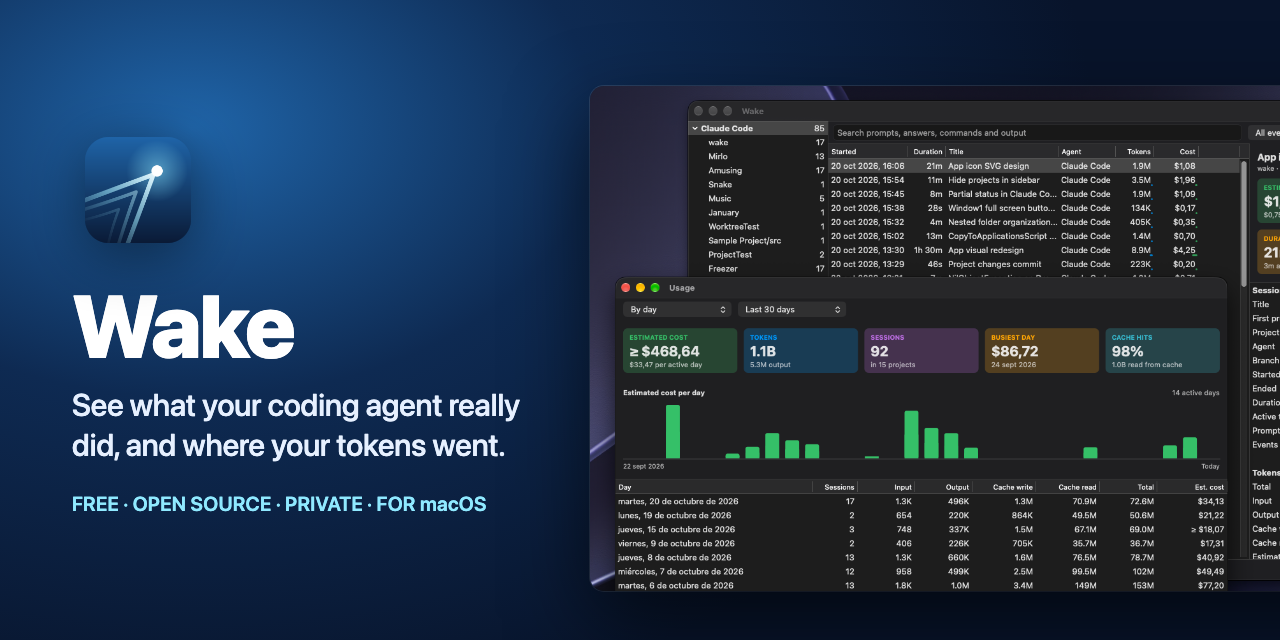
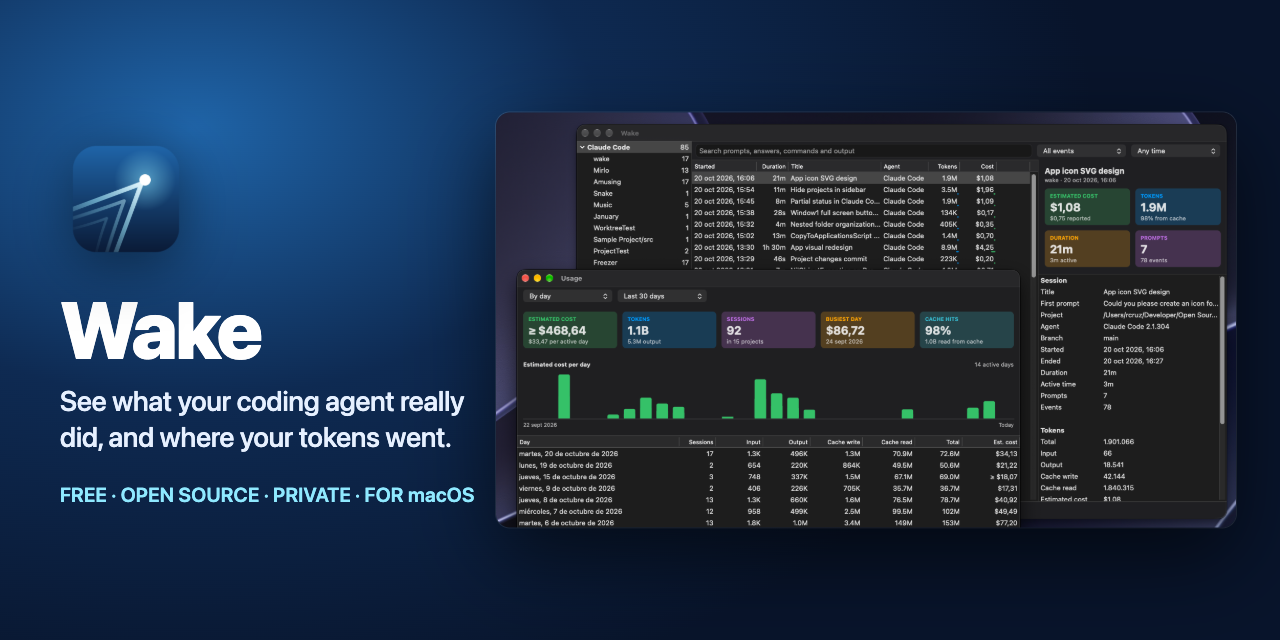
Show the whole screenshot in the social preview
The main window's summary cards on the right were cut off. The
screenshot now fits inside the card, and the text column is a little
narrower to make room.

diff --git a/Artwork/SocialPreview/social-preview.html b/Artwork/SocialPreview/social-preview.html
@@ -1,12 +1,12 @@
 <!doctype html><html><head><meta charset="utf-8"><style>
 html,body{margin:0;width:1280px;height:640px;overflow:hidden}
 body{background:radial-gradient(900px 600px at 15% 20%,#1F64A8 0%,#0E2A52 45%,#08142B 100%);font-family:-apple-system,"SF Pro Display",system-ui,sans-serif;color:#fff;position:relative}
-.left{position:absolute;left:72px;top:0;bottom:0;width:470px;display:flex;flex-direction:column;justify-content:center}
+.left{position:absolute;left:60px;top:0;bottom:0;width:420px;display:flex;flex-direction:column;justify-content:center}
 .icon{width:132px;height:132px;filter:drop-shadow(0 12px 28px rgba(0,0,0,.45))}
-h1{font-size:88px;font-weight:800;letter-spacing:-2px;margin:18px 0 6px}
-p{font-size:31px;line-height:1.28;font-weight:500;margin:0;color:#E6F0FF}
+h1{font-size:80px;font-weight:800;letter-spacing:-2px;margin:18px 0 6px}
+p{font-size:28px;line-height:1.28;font-weight:500;margin:0;color:#E6F0FF}
 .meta{margin-top:28px;font-size:20px;font-weight:600;color:#8FE9FF;letter-spacing:.3px}
-.shot{position:absolute;left:590px;top:86px;width:900px;border-radius:14px;box-shadow:0 30px 80px rgba(0,0,0,.6),0 0 0 1px rgba(255,255,255,.12)}
+.shot{position:absolute;right:44px;top:50%;transform:translateY(-50%);width:740px;border-radius:14px;box-shadow:0 30px 80px rgba(0,0,0,.6),0 0 0 1px rgba(255,255,255,.12)}
 </style></head><body>
 <img class="shot" src="screenshot.png">
 <div class="left">
